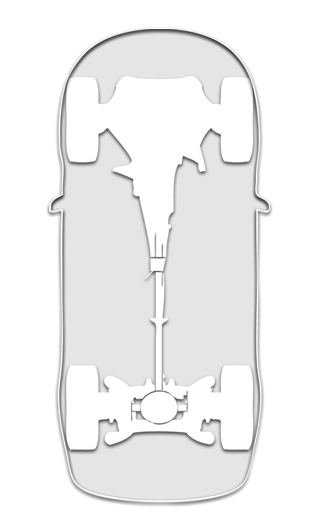
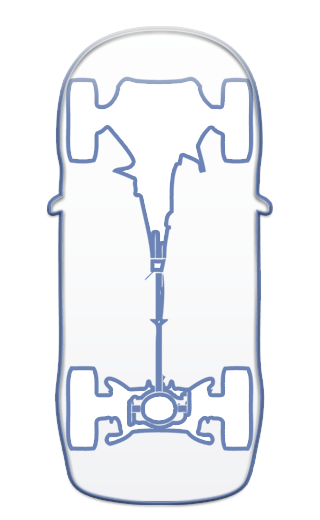
tweaked to work with better builder

Changed region(s): [[0.125, 0.0308, 0.875, 0.9846]]

diff --git a/Resources/theme_name.js b/Resources/theme_name.js
@@ -1,1 +1,1 @@
-ThemeName = "mdx";
+ThemeName = "acura";
